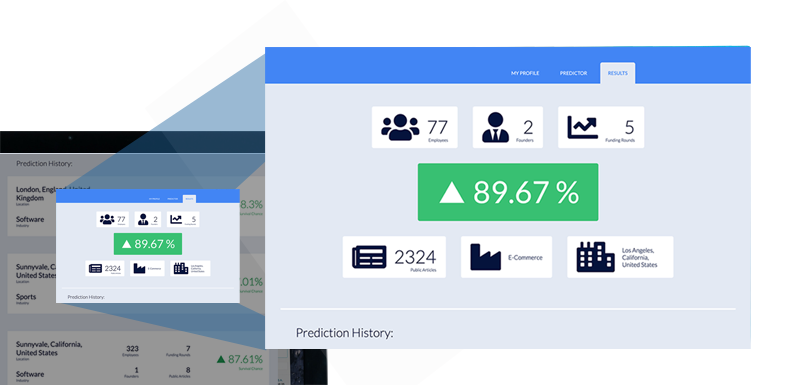
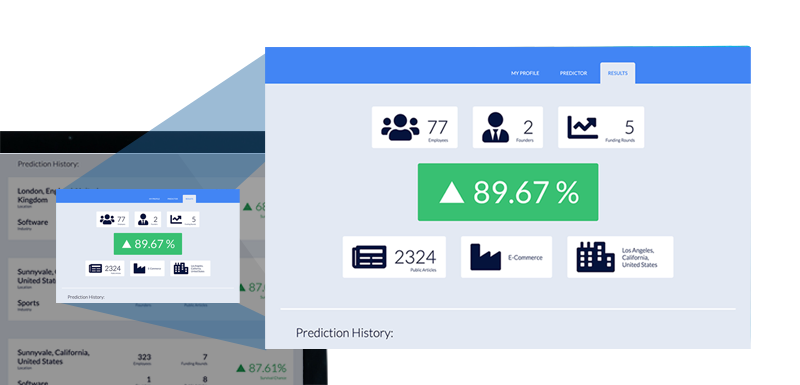
style photo changes for homepage

diff --git a/index.html b/index.html
@@ -77,7 +77,7 @@
       </div>
     </section>
 
-    <section id="process-section" class="py-4 bg-matisse text-white">
+    <section id="process-section" class="py-4 text-white">
       <div class="container">
         <div class="row text-center">
           <!-- <div class="col-12 col-md-3 px-0 d-flex justify-content-center align-items-center"> -->

diff --git a/public/css/index.css b/public/css/index.css
@@ -1965,6 +1965,9 @@ header nav a:active {
     padding: 100px 2.5rem;
   }
 }
+#process-section {
+  background-color: #4285F4;
+}
 #process-section .container {
   padding: 20px 0;
 }

diff --git a/server/assets/less/homepage.less b/server/assets/less/homepage.less
@@ -53,6 +53,7 @@
 }
 
 #process-section {
+    background-color: #4285F4;
     .container {
         padding:20px 0;
         @media @tablet {
